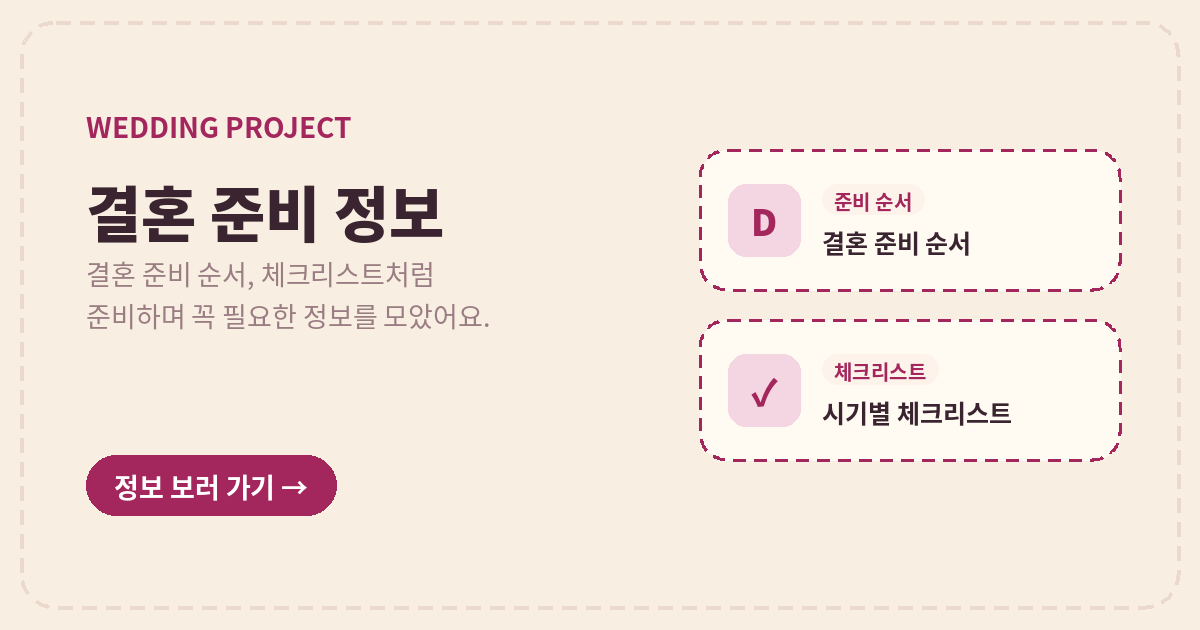
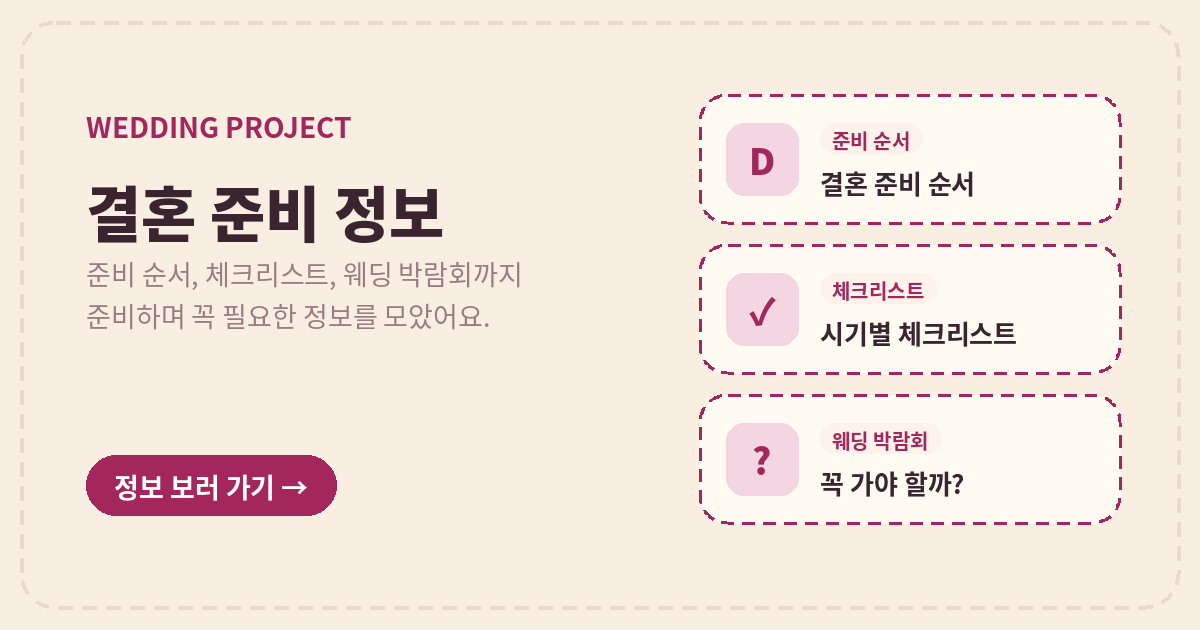
체크리스트 인쇄 1장(진행 숫자 제외), 글 공유하기, 웨딩 박람회 글 추가
Claude-Session: https://claude.ai/code/session_01S32QDWXtYsxnzG1g1uiRkP

diff --git a/info/fair/index.html b/info/fair/index.html
@@ -1,0 +1,123 @@
+<!DOCTYPE html>
+<html lang="ko">
+<head>
+<meta charset="utf-8">
+<meta name="viewport" content="width=device-width, initial-scale=1">
+<title>웨딩 박람회, 꼭 가야 할까? 가는 이유와 전국 일정 확인법 | 웨딩 프로젝트</title>
+<meta name="description" content="웨딩 박람회에 가면 좋은 이유, 가기 전 준비, 현장 계약 주의사항, 지역별 일정 확인하는 곳까지 정리했어요.">
+<meta property="og:type" content="article">
+<meta property="og:site_name" content="웨딩 프로젝트">
+<meta property="og:title" content="웨딩 박람회, 꼭 가야 할까? 가는 이유와 전국 일정 확인법 | 웨딩 프로젝트">
+<meta property="og:description" content="웨딩 박람회에 가면 좋은 이유, 가기 전 준비, 현장 계약 주의사항, 지역별 일정 확인하는 곳까지 정리했어요.">
+<meta property="og:image" content="https://wedding-project.softloomon.workers.dev/og/info-fair.png">
+<meta property="og:image:width" content="1200">
+<meta property="og:image:height" content="630">
+<meta property="og:url" content="https://wedding-project.softloomon.workers.dev/info/fair/">
+<meta name="twitter:card" content="summary_large_image">
+<link rel="preconnect" href="https://fonts.googleapis.com">
+<link rel="preconnect" href="https://fonts.gstatic.com" crossorigin>
+<link href="https://fonts.googleapis.com/css2?family=Gaegu:wght@400;700&family=Noto+Sans+KR:wght@400;500;700;900&display=swap" rel="stylesheet">
+<style>
+:root{color-scheme:light;--paper:#f8efe2;--ink:#3a2430;--ink-soft:#9a7d83;--red:#c23b5a;--green:#4a8a5a;--pink:#f3d6e2;--line:#ecd9ce;--card-bg:#fffaf2;--accent:#a3265c;
+  --display:"Gaegu",cursive;--body:"Noto Sans KR","Apple SD Gothic Neo","Malgun Gothic",sans-serif;--gutter:clamp(16px,4vw,48px)}
+*{box-sizing:border-box}
+html,body{margin:0}
+body{background:var(--paper);color:var(--ink);font-family:var(--body);font-size:17px;line-height:1.65;word-break:keep-all}
+a{color:inherit}
+:focus-visible{outline:3px solid var(--accent);outline-offset:3px;border-radius:8px}
+.wrap{max-width:760px;margin:0 auto;padding:0 var(--gutter)}
+.top{display:flex;align-items:center;justify-content:space-between;gap:12px;padding:16px 0 12px;border-bottom:3px dashed var(--line)}
+.brand{font-family:var(--display);font-weight:700;font-size:1.8rem;text-decoration:none;color:var(--accent);line-height:1.1}
+.top a.home{font-family:var(--display);font-size:1.1rem;text-decoration:none;color:var(--ink-soft)}
+.top a.home:hover{color:var(--accent)}
+main{padding:24px 0 64px}
+.back{display:inline-block;margin:0 0 16px;font-family:var(--display);font-weight:700;font-size:1.1rem;color:var(--accent);text-decoration:none}
+footer{border-top:3px dashed var(--line);padding:22px 0 36px;color:var(--ink-soft);font-size:.9rem}
+[hidden]{display:none !important}
+</style>
+<link rel="stylesheet" href="/info/info.css">
+</head>
+<body>
+<div class="wrap">
+  <header class="top">
+    <a class="brand" href="/">Wedding Project</a>
+    <a class="home" href="/#cat-2">← 메인으로</a>
+  </header>
+  <main>
+    <a class="back" href="/info/">← 결혼 준비 정보 목록</a>
+    <article class="post">
+      <span class="post-tag">웨딩 박람회</span>
+      <h1>웨딩 박람회, 꼭 가야 할까?</h1>
+      <p class="post-meta">웨딩 프로젝트 · 2026.11.21 · 약 5분</p>
+      <div class="share-row"><button type="button" class="btn ghost sm" data-share>🔗 공유하기</button><span class="share-msg" role="status" aria-live="polite"></span></div>
+      <p class="post-lead">결혼 준비를 시작하면 가장 먼저 듣게 되는 말 중 하나가 "박람회 가 봤어?"예요. 잘 활용하면 시간을 크게 아낄 수 있지만, 준비 없이 가면 계약 압박에 흔들리기도 해요. 가면 좋은 이유, 가기 전 준비, 현장 주의사항, 지역별 일정 확인하는 곳까지 정리했어요.</p>
+      <nav class="toc" aria-label="목차"><b>목차</b><ol><li><a href="#f1">웨딩 박람회는 어떤 곳인가요?</a></li><li><a href="#f2">가면 좋은 이유 4가지</a></li><li><a href="#f3">가기 전에 준비하면 좋은 것</a></li><li><a href="#f4">현장에서 꼭 지킬 것 (계약 주의사항)</a></li><li><a href="#f5">전국 웨딩 박람회 일정, 어디서 확인할까요?</a></li></ol></nav>
+      <section id="f1" aria-labelledby="f1-t">
+        <h2 id="f1-t">웨딩 박람회는 어떤 곳인가요?</h2>
+        <p>웨딩홀, 스튜디오·드레스·메이크업(스드메), 예물, 혼수 가전·가구, 신혼여행 업체들이 한곳에 모여 상담해 주는 행사예요. 큰 전시장에서 열리는 대형 박람회도 있고, 백화점이나 웨딩홀, 웨딩 컨설팅 업체가 자체로 여는 작은 박람회도 있어요.</p>
+<p>보통 미리 온라인으로 등록하면 무료로 들어갈 수 있는 경우가 많고, 방문 선물이나 계약 특전을 내거는 곳도 있어요. 다만 혜택과 조건은 박람회와 업체마다 달라요.</p>
+      </section>
+      <section id="f2" aria-labelledby="f2-t">
+        <h2 id="f2-t">가면 좋은 이유 4가지</h2>
+        <h3>1. 하루에 여러 업체를 비교할 수 있어요</h3>
+<p>웨딩홀, 스드메, 예물, 혼수를 업체마다 따로 찾아가면 주말 몇 번이 금방 지나가요. 박람회에서는 한 번에 여러 곳의 상담을 받고 견적을 나란히 놓고 볼 수 있어요.</p>
+<h3>2. '시세 감'이 생겨요</h3>
+<p>처음 견적을 받으면 이 금액이 비싼지 싼지 알기 어려워요. 같은 날 비슷한 조건으로 여러 견적을 받아 보면 대략적인 가격대와 기본 구성, 추가금이 붙는 항목이 눈에 들어와요.</p>
+<h3>3. 박람회에서만 주는 혜택이 있을 수 있어요</h3>
+<p>방문 선물, 계약 시 추가 할인이나 업그레이드 같은 혜택을 주는 곳이 있어요. 단, 혜택 때문에 서둘러 계약할 필요는 없어요. 아래 주의사항을 꼭 함께 보세요.</p>
+<h3>4. 둘의 우선순위를 확인하는 계기가 돼요</h3>
+<p>여러 상품을 같이 보면서 "나는 드레스보다 사진이 중요해", "예식장은 교통이 제일 중요해"처럼 서로 중요하게 생각하는 것이 자연스럽게 드러나요.</p>
+      </section>
+      <section id="f3" aria-labelledby="f3-t">
+        <h2 id="f3-t">가기 전에 준비하면 좋은 것</h2>
+        <ul>
+<li><b>기본 조건 정하기</b>: 희망 예식 시기, 지역, 예상 하객 수, 전체 예산. 이게 정해져 있어야 상담이 빨라지고 비교도 정확해져요.</li>
+<li><b>사전 등록</b>: 대부분 온라인 사전 등록이나 초대권 신청을 받아요. 일정과 장소, 운영 시간을 미리 확인해 두세요.</li>
+<li><b>질문 목록</b>: 업체별로 물어볼 것을 적어 가세요. (예: 기본 구성, 추가금 항목, 부가세 포함 여부, 계약금과 환불 조건)</li>
+<li><b>둘이 같이 가기</b>: 혼자 가면 현장 분위기에 휩쓸리기 쉬워요. 둘이 가면 한 사람이 "집에 가서 정하자"고 멈춰 줄 수 있어요.</li>
+<li><b>처음엔 '구경' 목적으로</b>: 첫 방문은 시세를 보는 날로 정하고, 후보를 추린 뒤 다시 상담받는 방식이 마음이 편해요.</li>
+</ul>
+      </section>
+      <section id="f4" aria-labelledby="f4-t">
+        <h2 id="f4-t">현장에서 꼭 지킬 것 (계약 주의사항)</h2>
+        <ul>
+<li><b>당일 계약을 서두르지 않기</b>: "오늘만 이 가격"이라는 말을 자주 듣게 돼요. 견적서만 받아 오고, 집에서 비교한 뒤 정해도 늦지 않아요.</li>
+<li><b>견적은 글로 받기</b>: 구두 약속은 나중에 확인하기 어려워요. 포함 항목, 추가금, 부가세 포함 여부가 적힌 견적서를 받아 오세요. 특별히 약속받은 조건은 계약서에 특약으로 적어 달라고 하세요.</li>
+<li><b>환불·위약금 조건 확인</b>: 계약금을 내기 전에 취소하면 얼마를 돌려받는지 계약서로 확인하세요. 한국소비자원은 계약 전 환급·위약금 조건을 꼼꼼히 보고, 신용카드 할부로 결제할 것을 권하고 있어요.</li>
+<li><b>14일 청약철회, 단 예외가 있어요</b>: 박람회에서 맺은 계약은 방문판매 기준에 따라 보통 14일 안에 취소할 수 있어요. 하지만 업체가 <b>자기 사업장에서 연 박람회</b>라면 이 권리가 보장되지 않을 수 있어요. 박람회 장소가 그 업체의 사무실·매장인지 미리 확인하세요.</li>
+<li><b>문제가 생기면</b>: 취소 의사를 문자나 내용증명처럼 기록이 남는 방법으로 알리고, 해결이 안 되면 한국소비자원에 상담·피해구제를 신청할 수 있어요.</li>
+</ul>
+      </section>
+      <section id="f5" aria-labelledby="f5-t">
+        <h2 id="f5-t">전국 웨딩 박람회 일정, 어디서 확인할까요?</h2>
+        <p>박람회 일정은 매주 바뀌어서, 날짜를 외우기보다 <b>공식 일정표를 확인하는 습관</b>이 가장 정확해요. 지역별로 박람회가 자주 열리는 곳은 이래요.</p>
+<ul>
+<li><b>서울</b>: 코엑스, 세텍 같은 대형 전시장과 백화점, 웨딩홀에서 거의 매주 열려요. 예를 들어 코엑스 공식 일정표를 보면 2026년 11월 한 달에만 웨딩 박람회가 여러 번 잡혀 있어요. → <a href="https://www.coex.co.kr/event/exhibitions-calendar/" target="_blank" rel="noopener">코엑스 행사 일정</a></li>
+<li><b>부산</b>: 벡스코를 비롯해 방송사, 백화점, 웨딩홀 등 여러 곳에서 열려요. → <a href="https://www.bexco.co.kr" target="_blank" rel="noopener">벡스코</a></li>
+<li><b>대구</b>: 엑스코를 중심으로 시즌마다 대형 박람회가 열려요. 서울처럼 매주가 아니라서 놓치면 다음 회차를 기다려야 해요. → <a href="https://www.exco.co.kr" target="_blank" rel="noopener">엑스코</a></li>
+<li><b>대전·충청</b>: 대전컨벤션센터(DCC)를 중심으로 열려요. → <a href="https://www.dcckorea.or.kr" target="_blank" rel="noopener">대전컨벤션센터</a></li>
+<li><b>광주·호남, 그 밖의 지역</b>: 지역 전시장이나 웨딩홀, 웨딩 컨설팅 업체가 여는 박람회가 많아요. 업체 주최 박람회는 그 업체 홈페이지에서 일정을 확인하세요.</li>
+</ul>
+<p class="tip"><b>TIP</b> 전시장 일정표에서 '웨딩'으로 검색하면 빠르게 찾을 수 있어요. 가기 전날 운영 시간과 사전 등록 여부를 한 번 더 확인하세요.</p>
+      </section>
+      <div class="post-cta">
+        <p><b>박람회 다녀온 뒤에는?</b> 받은 견적을 정리하고, 체크리스트에서 다음 할 일을 확인해 보세요.</p>
+        <a class="btn" href="/info/checklist/">결혼 준비 체크리스트 열기 →</a>
+      </div>
+      <p class="note">이 글은 2026년 11월 기준으로 썼어요. 박람회 일정, 혜택, 계약 조건은 수시로 바뀌니 방문 전 공식 일정표와 계약서를 꼭 확인해 주세요. 계약 분쟁은 개별 상황에 따라 달라질 수 있어요.<br>
+      참고: <a href="https://biz.sbs.co.kr/amp/article/20000312193" target="_blank" rel="noopener">SBS Biz, 결혼박람회 계약 관련 한국소비자원 분쟁조정 보도(2026.05)</a> · <a href="https://www.ytn.co.kr/_ln/0102_202409131723168522" target="_blank" rel="noopener">YTN, 웨딩박람회 계약 분쟁 보도(2024.09)</a> · <a href="https://www.coex.co.kr/event/exhibitions-calendar/" target="_blank" rel="noopener">코엑스 행사 일정</a></p>
+      <div class="share-row end"><button type="button" class="btn sm" data-share>🔗 이 글 공유하기</button><span class="share-msg" role="status" aria-live="polite"></span></div>
+    </article>
+    <section class="more-posts" aria-labelledby="more-title">
+      <h2 id="more-title">결혼 준비 정보 목록</h2>
+      <p>다른 글도 이어서 읽어 보세요.</p>
+      <div class="ip-list" id="more-list"></div>
+      <p style="margin:16px 0 0"><a class="btn ghost" href="/info/">결혼 준비 정보 전체 보기</a></p>
+    </section>
+  </main>
+  <footer>Wedding Project · 결혼 준비 정보는 일반적인 기준이에요. 커플마다 상황에 맞게 조정해 주세요.</footer>
+</div>
+<script src="/info/posts.js"></script>
+<script>WPInfoList(document.getElementById("more-list"), { current: "fair" });</script>
+</body>
+</html>

diff --git a/info/info.css b/info/info.css
@@ -18,7 +18,11 @@
 .post{background:var(--card-bg);border:2px dashed var(--line);border-radius:24px;padding:clamp(20px,5vw,40px)}
 .post-tag{display:inline-block;font-size:.8rem;font-weight:700;padding:2px 12px;border-radius:999px;background:#fdf3ea;color:var(--accent)}
 .post h1{font-family:var(--display);font-weight:700;font-size:clamp(2rem,6vw,2.8rem);line-height:1.2;margin:12px 0 8px}
-.post-meta{margin:0 0 22px;font-size:.86rem;color:var(--ink-soft)}
+.post-meta{margin:0 0 10px;font-size:.86rem;color:var(--ink-soft)}
+.share-row{display:flex;align-items:center;gap:10px;flex-wrap:wrap;margin:0 0 22px}
+.btn.sm{min-height:38px;padding:4px 16px;font-size:1rem}
+.share-msg{font-size:.86rem;color:var(--green);word-break:break-all}
+.share-row.end{margin:22px 0 0}
 .post-lead{margin:0 0 24px;font-size:1.05rem;line-height:1.8}
 .post h2{font-family:var(--display);font-weight:700;font-size:clamp(1.5rem,4.4vw,1.9rem);line-height:1.3;margin:34px 0 10px}
 .post h3{font-size:1.05rem;margin:18px 0 6px}
@@ -68,27 +72,27 @@
 .cl-actions{display:flex;gap:8px;flex-wrap:wrap;align-items:center;margin:24px 0 0}
 .cl-actions .confirm{font-size:.9rem;color:var(--red)}
 @media (prefers-reduced-motion:reduce){.bar i{transition:none}}
-/* 인쇄: 제목과 체크리스트만, 고딕체, 왼쪽·오른쪽 2단으로 A4 2장 안에 */
-@page{size:A4;margin:12mm 11mm}
+/* 인쇄: 제목과 체크리스트만, 고딕체, 왼쪽·오른쪽 2단으로 A4 1장 */
+@page{size:A4;margin:9mm 9mm}
 @media print{
   html,body{background:#fff !important}
-  body{font-family:"Noto Sans KR","Apple SD Gothic Neo","Malgun Gothic",sans-serif !important;font-size:9.2pt;line-height:1.35;color:#000;-webkit-print-color-adjust:exact;print-color-adjust:exact}
+  body{font-family:"Noto Sans KR","Apple SD Gothic Neo","Malgun Gothic",sans-serif !important;font-size:9.1pt;line-height:1.32;color:#000;-webkit-print-color-adjust:exact;print-color-adjust:exact}
   .wrap{max-width:none;padding:0}
   main{padding:0}
-  .top,.back,.post-tag,.post-meta,.post-lead,.progress,.cl-actions,.note,.more-posts,footer,.post-cta{display:none !important}
-  .post{border:0;padding:0;background:none;border-radius:0;column-count:2;column-gap:9mm}
+  .top,.back,.post-tag,.post-meta,.post-lead,.progress,.cl-actions,.cl-count,.note,.more-posts,footer,.post-cta,.share-row{display:none !important}
+  .post{border:0;padding:0;background:none;border-radius:0;column-count:2;column-gap:7mm;column-fill:balance}
   .post h1,.post h2,.step-when{font-family:"Noto Sans KR","Apple SD Gothic Neo","Malgun Gothic",sans-serif !important}
-  .post h1{column-span:all;font-size:16pt;font-weight:900;margin:0 0 4mm;padding:0 0 2.5mm;border-bottom:1.5pt solid #a3265c}
-  .cl-group{break-inside:avoid;page-break-inside:avoid;margin:0 0 4mm;padding:2.5mm 3mm;border:0.8pt solid #d8c3b8;border-radius:3mm}
-  .cl-head{display:flex;align-items:baseline;justify-content:space-between;gap:2mm;flex-wrap:nowrap}
-  .cl-head>div{display:flex;align-items:baseline;gap:2mm;flex-wrap:wrap}
-  .step-when{background:none !important;color:#a3265c !important;padding:0;border-radius:0;font-size:9.5pt;font-weight:900;margin:0}
-  .cl-head h2{font-size:10.5pt;font-weight:700;margin:0;line-height:1.3}
-  .cl-count{font-size:8pt;white-space:nowrap}
-  .cl{margin:1.5mm 0 0}
-  .cl label{padding:0.7mm 0;gap:2mm;border-radius:0}
-  .cl input{width:3.6mm;height:3.6mm;margin:0.4mm 0 0}
-  .cl .t{line-height:1.35}
-  .cl .t small{font-size:7.6pt;line-height:1.3}
+  .post h1{column-span:all;font-size:15pt;font-weight:900;margin:0 0 3mm;padding:0 0 2mm;border-bottom:1.2pt solid #a3265c}
+  .cl-group{break-inside:avoid;page-break-inside:avoid;margin:0 0 2.6mm;padding:1.8mm 2.6mm;border:0.7pt solid #d8c3b8;border-radius:2.5mm}
+  .cl-head{display:block}
+  .cl-head>div{display:flex;align-items:baseline;gap:1.8mm;flex-wrap:wrap}
+  .step-when{background:none !important;color:#a3265c !important;padding:0;border-radius:0;font-size:9.4pt;font-weight:900;margin:0}
+  .cl-head h2{font-size:10.2pt;font-weight:700;margin:0;line-height:1.25}
+  .cl{margin:0.8mm 0 0}
+  .cl label{padding:0.55mm 0;gap:1.6mm;border-radius:0}
+  .cl input{width:3.4mm;height:3.4mm;margin:0.25mm 0 0}
+  .cl .t{line-height:1.28}
+  .cl .t small{display:inline;font-size:7.6pt;color:#8a7075;margin-left:1.2mm}
+  .cl .t small::before{content:"· "}
   .cl input:checked + .t{color:#777}
 }

diff --git a/info/order/index.html b/info/order/index.html
@@ -49,6 +49,7 @@ footer{border-top:3px dashed var(--line);padding:22px 0 36px;color:var(--ink-sof
       <span class="post-tag">준비 순서</span>
       <h1>결혼 준비 순서 한눈에 보기</h1>
       <p class="post-meta">웨딩 프로젝트 · 2026.11.21 · 약 6분</p>
+      <div class="share-row"><button type="button" class="btn ghost sm" data-share>🔗 공유하기</button><span class="share-msg" role="status" aria-live="polite"></span></div>
       <p class="post-lead">결혼 준비는 보통 <b>예식 10~12개월 전</b>부터 시작해요. 할 일이 많아 보여도 순서대로 하나씩 하면 훨씬 덜 막막해요. 아래 일정은 일반적인 기준이니, 두 사람의 상황에 맞게 앞당기거나 늦춰서 쓰세요.</p>
       <nav class="toc" aria-label="목차"><b>목차</b><ol><li><a href="#s1">D-12~10개월 · 큰 그림 그리기와 상견례</a></li><li><a href="#s2">D-10~8개월 · 예식장 정하고 예약하기</a></li><li><a href="#s3">D-8~6개월 · 스드메 계약과 신혼여행 예약</a></li><li><a href="#s4">D-6~4개월 · 신혼집·혼수·예물 준비와 웨딩 촬영</a></li><li><a href="#s5">D-4~2개월 · 본식 준비와 청첩장 만들기</a></li><li><a href="#s6">D-2~1개월 · 청첩장 돌리기와 세부 일정 정리</a></li><li><a href="#s7">D-1개월~D-day · 최종 점검</a></li><li><a href="#s8">결혼식 후 · 마무리와 혼인신고</a></li></ol></nav>
       <section class="step" id="s1" aria-labelledby="s1-t">
@@ -61,6 +62,7 @@ footer{border-top:3px dashed var(--line);padding:22px 0 36px;color:var(--ink-sof
 <li><b>신혼집 방향</b>: 어느 지역에, 전세·월세·매매 중 어떤 방식으로 구할지</li>
 <li><b>양가 인사와 상견례</b>: 서로의 부모님께 인사드린 뒤 상견례 날짜와 장소를 잡아요. 상견례에서는 예식 시기, 예단·예물 생략 여부 같은 큰 방향을 이야기하는 경우가 많아요.</li>
 </ul>
+<p class="tip"><b>TIP</b> 웨딩홀·스드메 시세 감을 잡고 싶다면 이 시기에 <a href="/info/fair/">웨딩 박람회</a>를 한 번 다녀오는 것도 좋아요.</p>
 <p class="tip"><b>TIP</b> 두 사람 생각이 어디서 같고 다른지 먼저 확인해 보세요. <a href="/values/">결혼 가치관 맞춰보기</a>로 각자 답해 보고 비교하면 대화를 시작하기 쉬워요.</p>
       </section>
       <section class="step" id="s2" aria-labelledby="s2-t">
@@ -144,6 +146,7 @@ footer{border-top:3px dashed var(--line);padding:22px 0 36px;color:var(--ink-sof
         <a class="btn" href="/info/checklist/">결혼 준비 체크리스트 열기 →</a>
       </div>
       <p class="note">일정과 비용은 지역, 예식 형태, 시즌에 따라 많이 달라요. 계약 조건과 제도는 바뀔 수 있으니 계약 전에 업체와 기관에서 직접 확인해 주세요.</p>
+      <div class="share-row end"><button type="button" class="btn sm" data-share>🔗 이 글 공유하기</button><span class="share-msg" role="status" aria-live="polite"></span></div>
     </article>
     <section class="more-posts" aria-labelledby="more-title">
       <h2 id="more-title">결혼 준비 정보 목록</h2>

diff --git a/info/posts.js b/info/posts.js
@@ -21,6 +21,16 @@ window.WP_POSTS = [
     date: "2026.11.21",
     read: "체크하며 보기",
   },
+  {
+    id: "fair",
+    path: "/info/fair/",
+    tag: "웨딩 박람회",
+    icon: "🎪",
+    title: "웨딩 박람회, 꼭 가야 할까? 가는 이유와 전국 일정 확인법",
+    desc: "박람회에 가면 좋은 점, 가기 전 준비, 현장 계약 주의사항, 지역별 일정 확인하는 곳까지 정리했어요.",
+    date: "2026.11.21",
+    read: "약 5분",
+  },
 ];
 
 /* 목록 그리기: current 를 주면 그 글은 '지금 보는 글'로 표시해요 */
@@ -45,3 +55,28 @@ window.WPInfoList = function (el, opts) {
     el.appendChild(a);
   });
 };
+
+/* 공유하기: 휴대폰은 공유 창, 안 되면 링크 복사 */
+(function () {
+  function init() {
+    document.querySelectorAll("[data-share]").forEach(function (btn) {
+      var msg = btn.parentNode.querySelector(".share-msg");
+      btn.addEventListener("click", function () {
+        var url = location.origin + location.pathname;
+        var t = document.querySelector('meta[property="og:title"]');
+        var d = document.querySelector('meta[property="og:description"]');
+        var data = { title: t ? t.content : document.title, text: d ? d.content : "", url: url };
+        var say = function (x) { if (msg) msg.textContent = x; };
+        var copy = function () {
+          try {
+            navigator.clipboard.writeText(url).then(function () { say("링크를 복사했어요. 원하는 곳에 붙여 넣어 주세요."); }, function () { say("복사가 안 되면 이 주소를 길게 눌러 복사해 주세요: " + url); });
+          } catch (e) { say("복사가 안 되면 이 주소를 길게 눌러 복사해 주세요: " + url); }
+        };
+        if (navigator.share) {
+          navigator.share(data).catch(function (e) { if (!e || e.name !== "AbortError") copy(); });
+        } else copy();
+      });
+    });
+  }
+  if (document.readyState === "loading") document.addEventListener("DOMContentLoaded", init); else init();
+})();

diff --git a/info/checklist/index.html b/info/checklist/index.html
@@ -49,6 +49,7 @@ footer{border-top:3px dashed var(--line);padding:22px 0 36px;color:var(--ink-sof
       <span class="post-tag">체크리스트</span>
       <h1>결혼 준비 체크리스트 (시기별)</h1>
       <p class="post-meta">웨딩 프로젝트 · 2026.11.21 · 할 일 47개</p>
+      <div class="share-row"><button type="button" class="btn ghost sm" data-share>🔗 공유하기</button><span class="share-msg" role="status" aria-live="polite"></span></div>
       <p class="post-lead"><a href="/info/order/">결혼 준비 순서</a>에 맞춰 시기별로 할 일을 정리했어요. 끝낸 일을 체크하면 진행률이 올라가요. 체크한 내용은 <b>지금 쓰는 기기(브라우저)에만 저장</b>되고 다른 곳에 보내지 않아요.</p>
       <div class="progress" role="status" aria-live="polite"><div class="progress-row">준비 진행률 <span id="p-text">0 / 47</span></div><div class="bar"><i id="p-bar"></i></div></div>
       <section class="cl-group" data-group="g1" aria-labelledby="g1-t">
@@ -89,6 +90,7 @@ footer{border-top:3px dashed var(--line);padding:22px 0 36px;color:var(--ink-sof
         <span id="reset-confirm" hidden><span class="confirm">정말 모두 지울까요? </span><button type="button" class="btn" id="reset-yes">지우기</button> <button type="button" class="btn ghost" id="reset-no">취소</button></span>
       </div>
       <p class="note">모든 항목을 다 할 필요는 없어요. 두 사람에게 필요 없는 항목은 그냥 체크해서 넘어가도 괜찮아요.</p>
+      <div class="share-row end"><button type="button" class="btn sm" data-share>🔗 이 글 공유하기</button><span class="share-msg" role="status" aria-live="polite"></span></div>
     </article>
     <section class="more-posts" aria-labelledby="more-title">
       <h2 id="more-title">결혼 준비 정보 목록</h2>

diff --git a/info/index.html b/info/index.html
@@ -47,7 +47,7 @@ footer{border-top:3px dashed var(--line);padding:22px 0 36px;color:var(--ink-sof
     <header class="post" style="margin:0 0 22px">
       <span class="post-tag">결혼 준비 정보</span>
       <h1>📋 결혼 준비 정보</h1>
-      <p class="post-lead" style="margin:0">결혼 준비 순서, 체크리스트처럼 준비하면서 꼭 필요한 정보를 모았어요. 글은 계속 추가될 예정이에요.</p>
+      <p class="post-lead" style="margin:0">결혼 준비 순서, 체크리스트, 웨딩 박람회 이야기처럼 준비하면서 꼭 필요한 정보를 모았어요. 글은 계속 추가될 예정이에요.</p>
     </header>
     <div class="ip-list" id="info-list"></div>
     <p class="note">궁금한 점이 있다면 <a href="/qna/" style="color:var(--accent);font-weight:700">익명 질문방</a>에 물어보세요. 다른 예비부부들과 운영자가 의견을 나눠 줘요.</p>

diff --git a/README.md b/README.md
@@ -45,7 +45,8 @@ Vercel이나 Netlify 둘 다 대시보드의 **Domains** 메뉴에서 구매한 
 ## 결혼 준비 정보 (2번 카테고리)
 
 - `info/` 게시판: 글 목록. 글을 열면 맨 아래에 '결혼 준비 정보 목록'이 있어서 다른 글로 바로 넘어갈 수 있어요.
-- 글: `info/order/` (결혼 준비 순서), `info/checklist/` (시기별 체크리스트, 체크한 내용은 그 기기 브라우저에만 저장)
+- 글: `info/order/` (결혼 준비 순서), `info/checklist/` (시기별 체크리스트, 체크한 내용은 그 기기 브라우저에만 저장, 인쇄 시 A4 1장), `info/fair/` (웨딩 박람회)
+- 글마다 위·아래에 **공유하기** 버튼이 있어요. 휴대폰은 공유 창, PC는 링크 복사.
 - 글 목록은 `info/posts.js` 한 곳에서 관리해요. 메인 2번 칸(최대 3개), 게시판, 글 아래 목록에 함께 나와요.
 - 새 글 추가: `info/<이름>/index.html`을 기존 글을 복사해서 만들고, `info/posts.js`에 항목을 추가하세요. 미리보기 이미지는 `og/`에 넣고 글의 `og:image`를 맞춰 주세요.
 
@@ -56,7 +57,7 @@ Vercel이나 Netlify 둘 다 대시보드의 **Domains** 메뉴에서 구매한 
   - 나의 결혼 마지노선 테스트: `https://wedding-project.softloomon.workers.dev/test3/`
   - 신혼생활 밸런스 게임: `https://wedding-project.softloomon.workers.dev/balance/`
   - 익명 질문방: `https://wedding-project.softloomon.workers.dev/qna/`
-  - 결혼 준비 정보: `…/info/`, 준비 순서 `…/info/order/`, 체크리스트 `…/info/checklist/`
+  - 결혼 준비 정보: `…/info/`, 준비 순서 `…/info/order/`, 체크리스트 `…/info/checklist/`, 웨딩 박람회 `…/info/fair/`
   - 사이트 첫 화면: `https://wedding-project.softloomon.workers.dev/`
 - 주소마다 제목, 설명, 카드 이미지(`og/*.png`, 1200×630)가 따로 나와요. 테스트별 문구는 `worker.js`의 `PAGES`, 첫 화면 문구는 `index.html`의 `<!--og-->` 부분에서 바꿀 수 있어요.
 - 이 주소로 들어오면 사이트 화면 안에서 그 테스트가 바로 열려요. 예전 주소(`/#values`)는 자동으로 새 주소로 바뀌어요.
